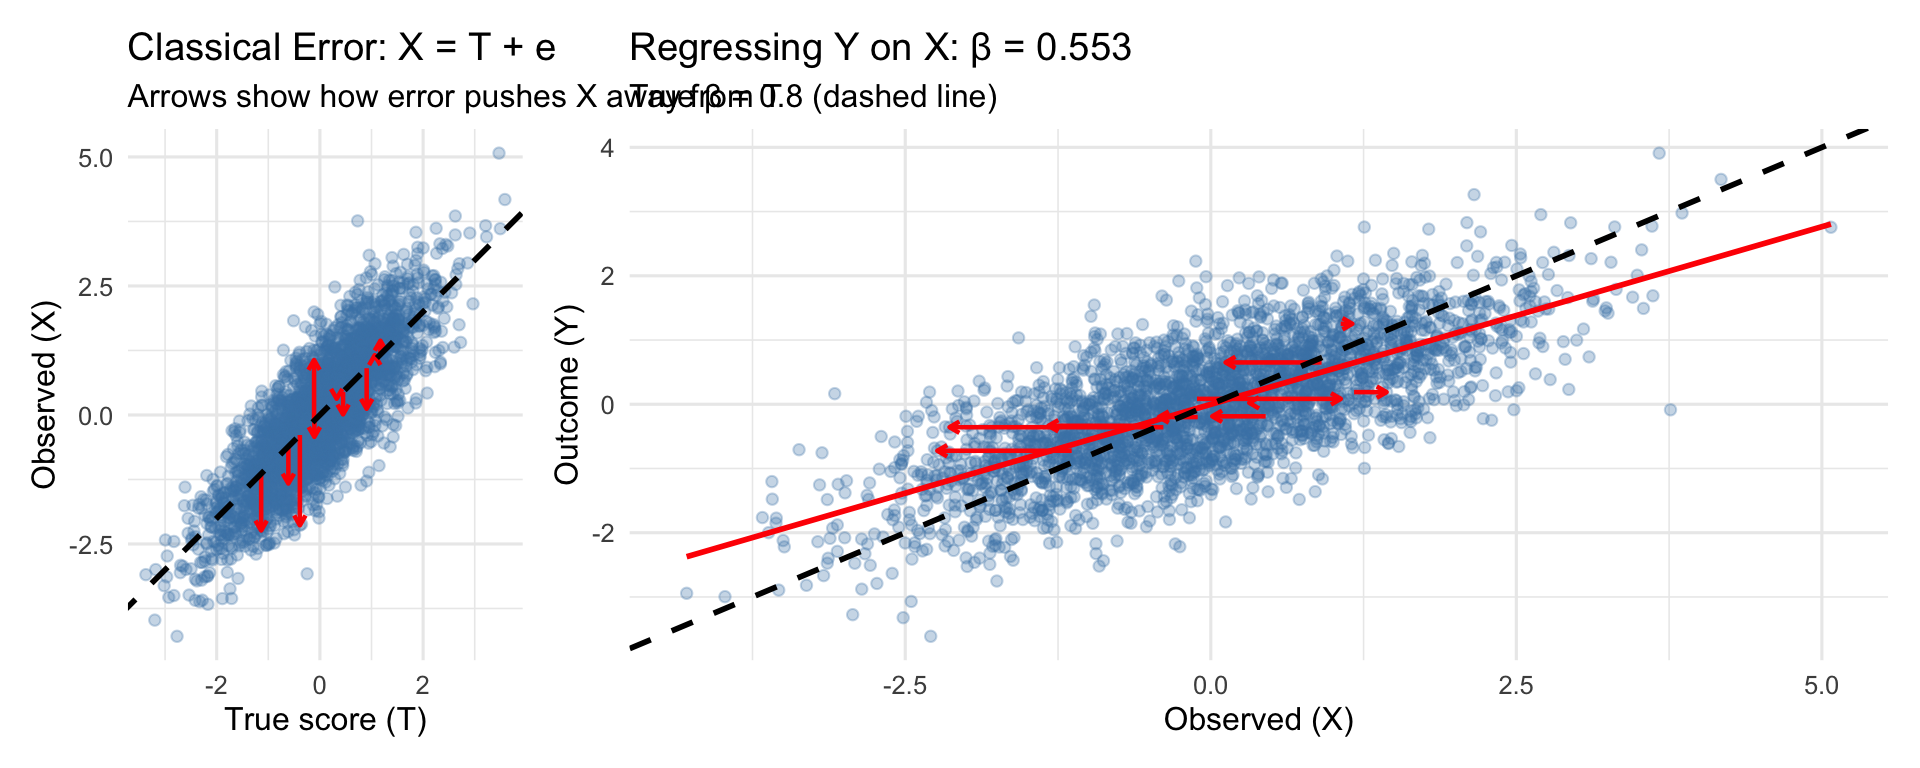
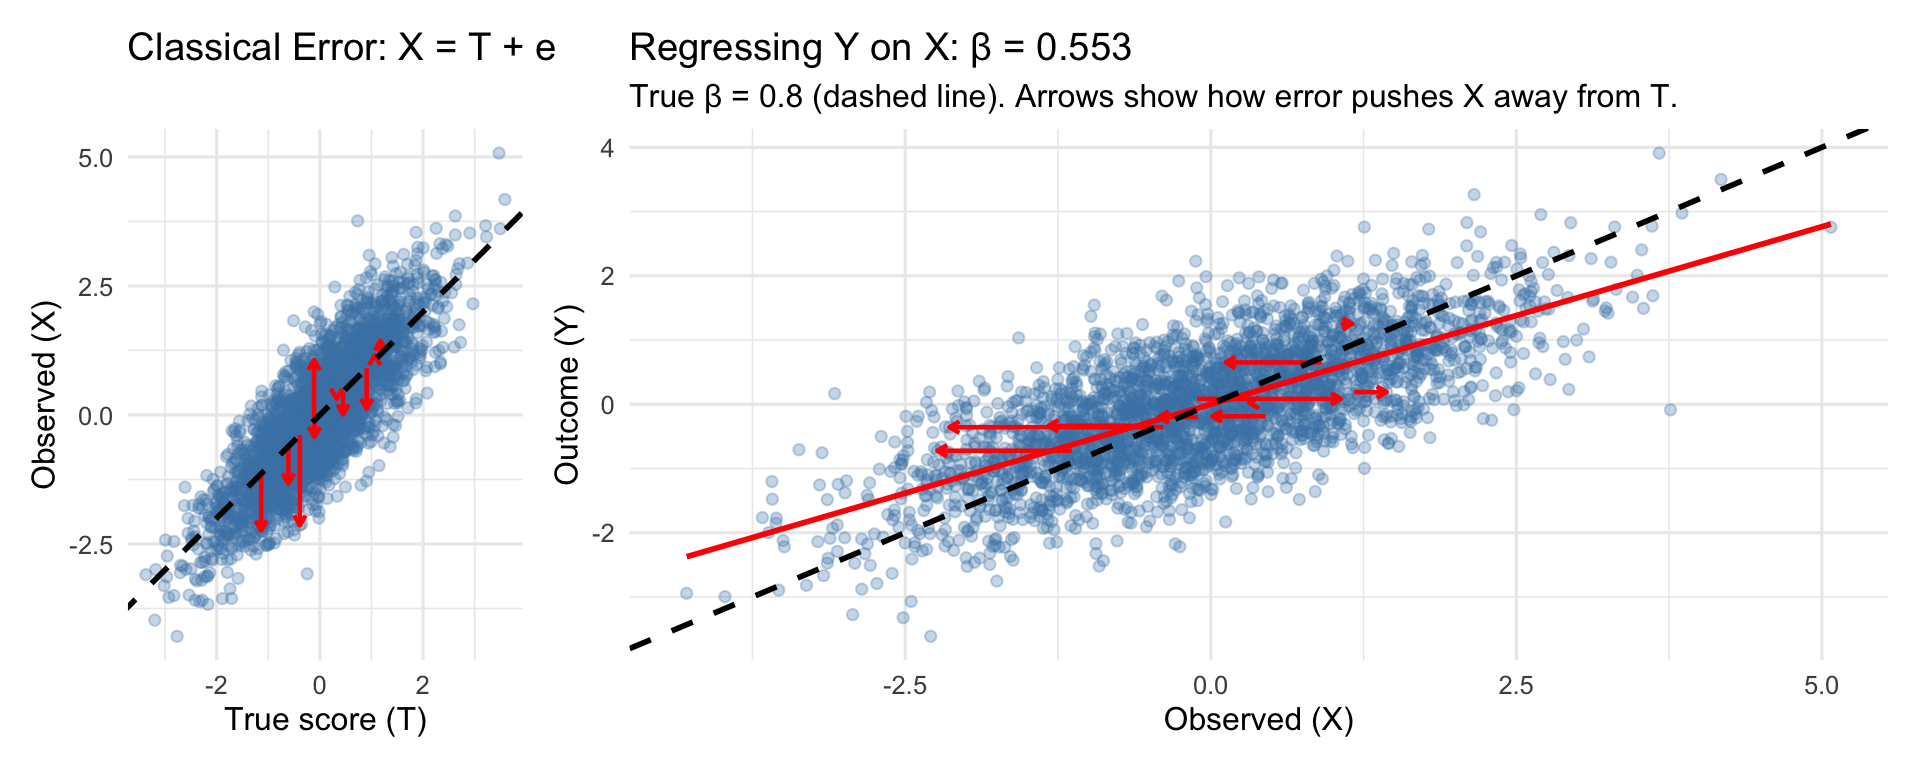
fix plot

Changed region(s): [[0.0625, 0.0938, 0.4062, 0.1562], [0.5312, 0.0938, 0.875, 0.1562]]

diff --git a/posts/2026-01-14-berkson-error-why-the-slope-of-your-synthetic-estimates-is-1/index.html b/posts/2026-01-14-berkson-error-why-the-slope-of-your-synthetic-estimates-is-1/index.html
@@ -2303,7 +2303,7 @@ Show code
 <span>               arrow <span class='op'>=</span> <span class='fu'><a href='https://rdrr.io/r/grid/arrow.html'>arrow</a></span><span class='op'>(</span>length <span class='op'>=</span> <span class='fu'><a href='https://rdrr.io/r/grid/unit.html'>unit</a></span><span class='op'>(</span><span class='fl'>0.15</span>, <span class='st'>"cm"</span><span class='op'>)</span><span class='op'>)</span>, color <span class='op'>=</span> <span class='st'>"red"</span>, linewidth <span class='op'>=</span> <span class='fl'>0.8</span><span class='op'>)</span> <span class='op'>+</span></span>
 <span>  <span class='fu'><a href='https://ggplot2.tidyverse.org/reference/geom_abline.html'>geom_abline</a></span><span class='op'>(</span>slope <span class='op'>=</span> <span class='fl'>1</span>, intercept <span class='op'>=</span> <span class='fl'>0</span>, linetype <span class='op'>=</span> <span class='st'>"dashed"</span>, linewidth <span class='op'>=</span> <span class='fl'>1</span><span class='op'>)</span> <span class='op'>+</span></span>
 <span>  <span class='fu'><a href='https://ggplot2.tidyverse.org/reference/labs.html'>labs</a></span><span class='op'>(</span>title <span class='op'>=</span> <span class='st'>"Classical Error: X = T + e"</span>,</span>
-<span>       subtitle <span class='op'>=</span> <span class='st'>"Arrows show how error pushes X away from T"</span>,</span>
+<span>       subtitle <span class='op'>=</span> <span class='st'>""</span>,</span>
 <span>       x <span class='op'>=</span> <span class='st'>"True score (T)"</span>, y <span class='op'>=</span> <span class='st'>"Observed (X)"</span><span class='op'>)</span> <span class='op'>+</span></span>
 <span>  <span class='fu'><a href='https://ggplot2.tidyverse.org/reference/coord_fixed.html'>coord_fixed</a></span><span class='op'>(</span><span class='op'>)</span></span>
 <span></span>
@@ -2314,7 +2314,7 @@ Show code
 <span>  <span class='fu'><a href='https://ggplot2.tidyverse.org/reference/geom_smooth.html'>geom_smooth</a></span><span class='op'>(</span>method <span class='op'>=</span> <span class='st'>"lm"</span>, se <span class='op'>=</span> <span class='cn'>FALSE</span>, color <span class='op'>=</span> <span class='st'>"red"</span>, linewidth <span class='op'>=</span> <span class='fl'>1</span><span class='op'>)</span> <span class='op'>+</span></span>
 <span>  <span class='fu'><a href='https://ggplot2.tidyverse.org/reference/geom_abline.html'>geom_abline</a></span><span class='op'>(</span>slope <span class='op'>=</span> <span class='va'>beta_true</span>, intercept <span class='op'>=</span> <span class='fl'>0</span>, linetype <span class='op'>=</span> <span class='st'>"dashed"</span>, linewidth <span class='op'>=</span> <span class='fl'>1</span><span class='op'>)</span> <span class='op'>+</span></span>
 <span>  <span class='fu'><a href='https://ggplot2.tidyverse.org/reference/labs.html'>labs</a></span><span class='op'>(</span>title <span class='op'>=</span> <span class='fu'><a href='https://rdrr.io/r/base/paste.html'>paste0</a></span><span class='op'>(</span><span class='st'>"Regressing Y on X: β = "</span>, <span class='fu'><a href='https://rdrr.io/r/base/Round.html'>round</a></span><span class='op'>(</span><span class='va'>beta_classical</span>, <span class='fl'>3</span><span class='op'>)</span><span class='op'>)</span>,</span>
-<span>       subtitle <span class='op'>=</span> <span class='fu'><a href='https://rdrr.io/r/base/paste.html'>paste0</a></span><span class='op'>(</span><span class='st'>"True β = "</span>, <span class='va'>beta_true</span>, <span class='st'>" (dashed line)"</span><span class='op'>)</span>,</span>
+<span>       subtitle <span class='op'>=</span> <span class='fu'><a href='https://rdrr.io/r/base/paste.html'>paste0</a></span><span class='op'>(</span><span class='st'>"True β = "</span>, <span class='va'>beta_true</span>, <span class='st'>" (dashed line). Arrows show how error pushes X away from T."</span><span class='op'>)</span>,</span>
 <span>       x <span class='op'>=</span> <span class='st'>"Observed (X)"</span>, y <span class='op'>=</span> <span class='st'>"Outcome (Y)"</span><span class='op'>)</span></span>
 <span></span>
 <span><span class='va'>p1_classical</span> <span class='op'>+</span> <span class='va'>p2_classical</span></span></code></pre>
